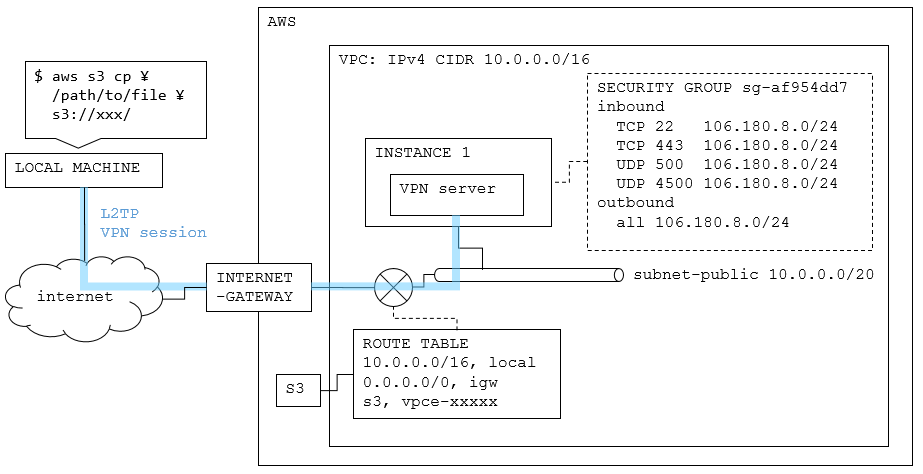
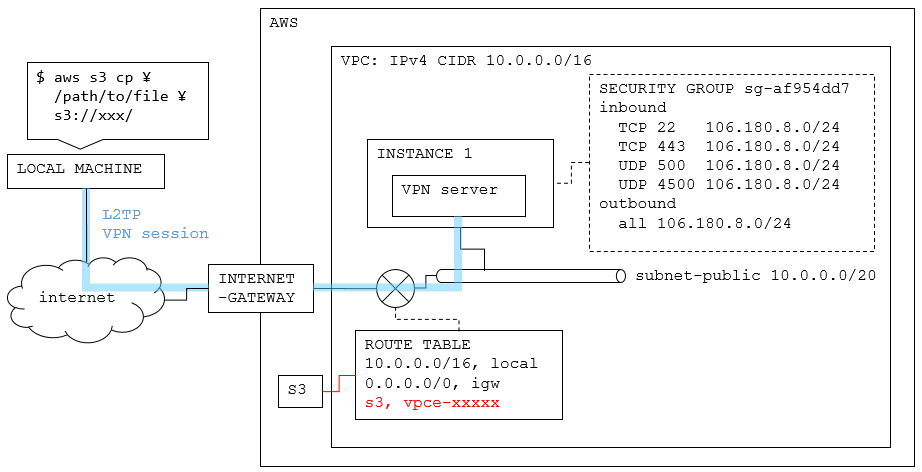
update

Changed region(s): [[0.0, 0.0, 1.0, 1.0], [0.6377, 0.1483, 0.9718, 0.5339]]

diff --git a/README.md b/README.md
@@ -96,3 +96,4 @@ aws cloudformation delete-stack --stack-name <value>
 
 ![document](./img/s3-vpn.PNG)
 
+※cloudFormationではS3のGatewayエンドポイントが作成できなさそうなので、手動で作成して、gwにアタッチすること
